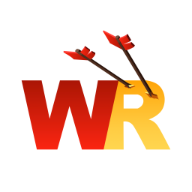
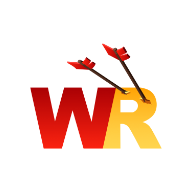
Replace images

Changed region(s): [[0.0938, 0.1562, 0.9062, 0.7812]]

diff --git a/flutter_service_worker.js b/flutter_service_worker.js
@@ -4,25 +4,25 @@ const TEMP = 'flutter-temp-cache';
 const CACHE_NAME = 'flutter-app-cache';
 
 const RESOURCES = {"version.json": "3e9584fff54bf88d82c8827728afd9fd",
-"splash/img/light-2x.png": "d5304399451e0b8b40407b8237cb8550",
-"splash/img/dark-4x.png": "d813a69dd93192fc374f36a47ed8d114",
-"splash/img/light-3x.png": "361b55857044a4531bebfa3388afca9c",
-"splash/img/dark-3x.png": "361b55857044a4531bebfa3388afca9c",
-"splash/img/light-4x.png": "d813a69dd93192fc374f36a47ed8d114",
-"splash/img/dark-2x.png": "d5304399451e0b8b40407b8237cb8550",
-"splash/img/dark-1x.png": "27ff82df1e395c3b9cd1e364765bcae2",
-"splash/img/light-1x.png": "27ff82df1e395c3b9cd1e364765bcae2",
+"splash/img/light-2x.png": "3581e372dbedd9febfefd60c40101dc3",
+"splash/img/dark-4x.png": "01438c3a169a58960c90d7fd82600ee8",
+"splash/img/light-3x.png": "82583572b81b4fda989f3ef8b75dfa94",
+"splash/img/dark-3x.png": "82583572b81b4fda989f3ef8b75dfa94",
+"splash/img/light-4x.png": "01438c3a169a58960c90d7fd82600ee8",
+"splash/img/dark-2x.png": "3581e372dbedd9febfefd60c40101dc3",
+"splash/img/dark-1x.png": "1735675a2001a35ce99527e0ca07ca37",
+"splash/img/light-1x.png": "1735675a2001a35ce99527e0ca07ca37",
 "splash/splash.js": "123c400b58bea74c1305ca3ac966748d",
 "splash/style.css": "87bd38c7e629047f693a28a8c4ccd458",
-"index.html": "a0e46454341b8751f7f64d7eb9446894",
-"/": "a0e46454341b8751f7f64d7eb9446894",
+"index.html": "488f458bb50b8d588082a50920a77093",
+"/": "488f458bb50b8d588082a50920a77093",
 "privacy-policy.html": "6416e42a403b06d96b6de9fd263befe6",
 "CNAME": "db59d0bb93db98cd8740d52c45dd5ea7",
 "main.dart.js": "e11bd7a3497b588361276209a62c967f",
 "flutter.js": "7d69e653079438abfbb24b82a655b0a4",
-"favicon.png": "d5a7974bdaaa254b9918c755a055ae7b",
-"icons/Icon-192.png": "d5a7974bdaaa254b9918c755a055ae7b",
-"icons/Icon-512.png": "bf81e628b32fdd9ca0d0430fcee8458a",
+"favicon.png": "89bf6a7ce8a86dec490ed8fecf017eb2",
+"icons/Icon-192.png": "89bf6a7ce8a86dec490ed8fecf017eb2",
+"icons/Icon-512.png": "6448fea72d5bc4fc1a687ec764ec3e88",
 "manifest.json": "c32b7b2b8630b5fdb27f9d780fddf3a5",
 "assets/AssetManifest.json": "fc36f437ad8ad288c2a116811067891f",
 "assets/NOTICES": "1ea8696a46253937e829091988abdb3f",

diff --git a/index.html b/index.html
@@ -75,7 +75,7 @@
 
   <script>
     // The value below is injected by flutter build, do not touch.
-    const serviceWorkerVersion = "2369056849";
+    const serviceWorkerVersion = "4046552007";
   </script>
   <!-- This script adds the flutter initialization JS code -->
   <script src="flutter.js" defer=""></script>
